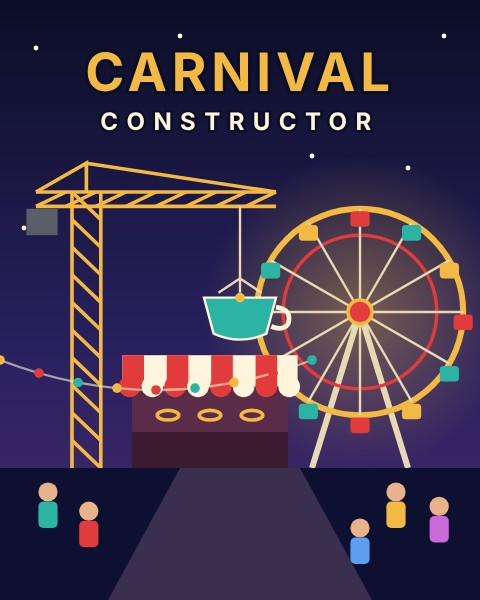
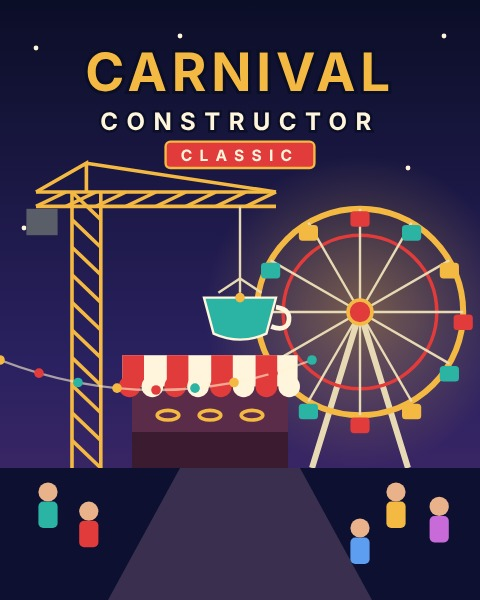
Launcher 3.4.2: Carnival Constructor is now Carnival Constructor Classic
Claude-Session: https://claude.ai/code/session_01FykqkhPqwC1VajmDK8MCci

Changed region(s): [[0.3125, 0.21, 0.6875, 0.3]]

diff --git a/src/IroniteLauncher/MainWindow.Library.cs b/src/IroniteLauncher/MainWindow.Library.cs
@@ -20,7 +20,7 @@ public partial class MainWindow
     {
         new("klondike", "FEATURED · CARD GAMES", "KLONDIKE", "GOLD RUSH SOLITAIRE"),
         new("rewindlife", "FREE DEMO · SIMULATION", "REWIND LIFE", "MAPLE GROVE, 1986"),
-        new("carnival", "FREE DEMO · SIMULATION", "CARNIVAL CONSTRUCTOR", "A TRAVELING CARNIVAL SIM"),
+        new("carnival", "FREE DEMO · SIMULATION", "CARNIVAL CONSTRUCTOR CLASSIC", "A TRAVELING CARNIVAL SIM"),
         new("bigtop", "FREE DEMO · SIMULATION", "BIG TOP BUILDER CLASSIC", "A CIRCUS MANAGEMENT SIM"),
         new("euchre", "FEATURED · CARD GAMES", "EUCHRE", "A KITCHEN-TABLE CLASSIC"),
         new("oldmaid", "FEATURED · CARD GAMES", "OLD MAID", "A VICTORIAN PARLOR GAME"),

diff --git a/CHANGELOG.md b/CHANGELOG.md
@@ -4,6 +4,11 @@ All notable changes to Ironite Launcher are recorded here.
 Versions follow Semantic Versioning (MAJOR.MINOR.PATCH): MAJOR for big overhauls,
 MINOR for new games and features, PATCH for fixes.
 
+## [3.4.2] - 2026-11-11
+
+### Changed
+- Carnival Constructor is now called Carnival Constructor Classic, in the Library, the featured carousel and on its cover art. If you have it installed, nothing changes: it keeps its play time, achievements and saved run.
+
 ## [3.4.1] - 2026-11-11
 
 ### Changed
